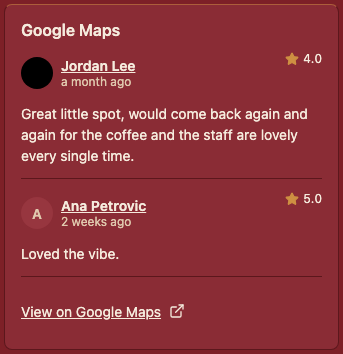
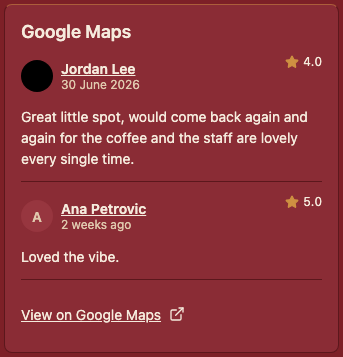
fix(app): round-2 review — mark size matches doc, real date formatting
Round 2 findings on PR #108:

1. Doc/code size mismatch: DESIGN_STANDARDS.md documents the Google Maps
   text mark at 18px (detail) / 16px (footer), but the code mapped `height`
   through fontSize.sm/md tokens, which don't land on those exact values
   (footer rendered 14px, not 16px). Fixed by rendering `height` directly as
   the literal font size — no token mapping to drift out of sync again.

2. Stub type didn't actually mirror T1 1:1: T1's `Review.Text` is a nested
   `localizedText` object and `Review.PublishTime` is a raw RFC3339
   timestamp with no relative-time field — the code comment overclaimed a
   1:1 mirror and rendered raw ISO dates verbatim. Corrected the comment to
   spell out exactly where T6's mapping isn't a straight rename, and made
   the component itself format the date via a shared `formatReviewDate`
   helper (extracted from `TripadvisorReviewsCarousel.tsx`, which had the
   identical "ISO in, real date out" problem, into `src/utils/date.ts` so
   both consumers share one implementation instead of two copies) —
   already-human strings that don't parse as a `Date` still pass through
   verbatim, covering Google's possible `relativePublishTimeDescription`
   case.

3. Minor: added an explicit link-press screenshot (`detail-link-press.png`,
   captured via a real sustained mousedown, not a synthetic RNTL event) —
   the avatar-loading pulse stays an explicit documented waiver
[…]

diff --git a/app/src/components/GoogleAttributionPlate.tsx b/app/src/components/GoogleAttributionPlate.tsx
@@ -4,12 +4,22 @@ import { useState } from 'react';
 import { Linking, Pressable, StyleSheet, Text, View } from 'react-native';
 import { useFocusable } from '../hooks/useFocusable';
 import { colors, fontSize, radius, space } from '../theme/tokens';
+import { formatReviewDate } from '../utils/date';
 import { Skeleton } from './Skeleton';
 
 // T5 (stub — T2 hasn't landed the backend wire shape yet, per
-// design-spec.md's "coordinate via engineering-notes.md" note). Field names
-// mirror T1's Go `placesmap.Review`/`AuthorAttribution` 1:1 so T6's mapping
-// from the proxy JSON is a rename, not a reshape.
+// design-spec.md's "coordinate via engineering-notes.md" note).
+// `authorAttribution`/`rating`/`text` mirror T1's Go `placesmap.Review`/
+// `AuthorAttribution` 1:1 (`DisplayName`→`displayName`, `PhotoURI`→`photoUri`,
+// `URI`→`uri`) — a rename, not a reshape. **`date` does NOT mirror T1
+// 1:1**: T1's `Review.Text` is a nested `localizedText` ({text: string}), so
+// T6 must unwrap `.Text` before it reaches `text` here; and T1's
+// `Review.PublishTime` is a raw RFC3339 timestamp with no
+// relative-time field, so T6 hands the raw ISO string to `date` — this
+// component (not T6) is what turns it into something readable (see
+// `formatReviewDate` below), matching `TripadvisorReviewsCarousel.tsx`'s
+// review-date treatment for the same "API gives ISO, UI shows a real date"
+// problem.
 export type GoogleAuthorAttribution = {
   displayName: string;
   photoUri?: string;
@@ -20,8 +30,11 @@ export type GoogleReview = {
   authorAttribution: GoogleAuthorAttribution;
   rating: number;
   text: string;
-  // Verbatim/relative date string from the API (e.g. "a month ago") —
-  // rendered as-is, never reformatted.
+  // A raw ISO-8601 timestamp (T1's `PublishTime`) *or* an already-human
+  // string (e.g. a `relativePublishTimeDescription`-style "a month ago",
+  // which Google's API can also return, if T6 ever wires it through) —
+  // `formatReviewDate` below reformats the former and passes the latter
+  // through verbatim, so callers don't need to know which one they have.
   date: string;
 };
 
@@ -90,9 +103,14 @@ export function GoogleAttributionPlate({ variant, reviews = [], googleMapsUri }:
 // accurate copy of Google's actual brand mark is out of scope here; swap in
 // the real bundled asset if/when one is sourced, per DESIGN_STANDARDS.md.
 function GoogleMapsMark({ height }: { height: number }) {
+  // `height` doubles as the literal font size (not one of tokens.ts's
+  // fontSize steps — 18px/16px don't land on that scale) so the rendered
+  // size always matches exactly what DESIGN_STANDARDS.md documents per
+  // call site (detail 18px, footer 16px) — no separate mapping to drift
+  // out of sync with the doc again.
   return (
     <View accessibilityElementsHidden importantForAccessibility="no-hide-descendants">
-      <Text style={[styles.markText, { fontSize: height === 16 ? fontSize.sm : fontSize.md }]}>Google Maps</Text>
+      <Text style={[styles.markText, { fontSize: height }]}>Google Maps</Text>
     </View>
   );
 }
@@ -124,7 +142,10 @@ function ReviewRow({ review, hairline }: { review: GoogleReview; hairline: boole
           <ReviewAvatar photoUri={authorAttribution.photoUri} displayName={authorAttribution.displayName} />
           <View style={styles.nameColumn}>
             <Text style={styles.authorName}>{authorAttribution.displayName}</Text>
-            <Text style={styles.reviewDate}>{date}</Text>
+            {/* formatReviewDate reformats an ISO timestamp (T1's raw
+                PublishTime); an already-human string that doesn't parse as
+                a Date (e.g. a relative "a month ago") passes through as-is. */}
+            <Text style={styles.reviewDate}>{formatReviewDate(date) ?? date}</Text>
           </View>
         </Pressable>
         <View style={styles.ratingGroup}>

diff --git a/app/src/features/activity-list/TripadvisorReviewsCarousel.tsx b/app/src/features/activity-list/TripadvisorReviewsCarousel.tsx
@@ -15,6 +15,7 @@ import type { TripadvisorReview } from '../../api/activities';
 import { useFocusable } from '../../hooks/useFocusable';
 import { colors, fontSize, radius, space } from '../../theme/tokens';
 import { RATING_BUBBLE_ASPECT_RATIO, RATING_BUBBLE_WIDTH } from '../../theme/tripadvisorBubble';
+import { formatReviewDate } from '../../utils/date';
 
 type TripadvisorReviewsCarouselProps = {
   reviews: TripadvisorReview[];
@@ -22,19 +23,6 @@ type TripadvisorReviewsCarouselProps = {
 
 const CARD_WIDTH_RATIO = 0.78; // design-spec.md: "~78% of the content width (~300px)".
 const CARD_GAP = space[3];
-
-// §5b review cards show "14 June 2026", not the API's raw ISO-8601
-// timestamp. `keyExtractor` still keys off the raw `review.date` string
-// (unaffected by this display-only reformat) — a missing/unparseable date
-// degrades to no date text rather than "Invalid Date" or the raw string.
-function formatReviewDate(date: string | undefined): string | null {
-  if (!date) return null;
-  const parsed = new Date(date);
-  if (Number.isNaN(parsed.getTime())) return null;
-  return new Intl.DateTimeFormat('en-GB', { day: 'numeric', month: 'long', year: 'numeric', timeZone: 'UTC' }).format(
-    parsed,
-  );
-}
 
 // design-spec.md T4's "Tripadvisor review card" recipe + paged carousel: up
 // to 3 white review cards, same paged-`FlatList` approach as the hero photo

diff --git a/app/src/components/GoogleAttributionPlate.test.tsx b/app/src/components/GoogleAttributionPlate.test.tsx
@@ -35,6 +35,17 @@ describe('GoogleAttributionPlate', () => {
     expect(screen.getByText('View on Google Maps')).toBeTruthy();
   });
 
+  it('detail variant: formats a raw ISO timestamp date into a readable date, not the raw string', () => {
+    render(<GoogleAttributionPlate variant="detail" reviews={[{ ...review, date: '2026-07-15T14:32:00Z' }]} />);
+    expect(screen.getByText('15 July 2026')).toBeTruthy();
+    expect(screen.queryByText('2026-07-15T14:32:00Z')).toBeNull();
+  });
+
+  it('detail variant: an already-human date string (not parseable as a Date) renders verbatim', () => {
+    render(<GoogleAttributionPlate variant="detail" reviews={[{ ...review, date: 'a month ago' }]} />);
+    expect(screen.getByText('a month ago')).toBeTruthy();
+  });
+
   it('detail variant: the brand mark renders once (header only), not again on the in-card maps link row', () => {
     render(
       <GoogleAttributionPlate variant="detail" reviews={[review]} googleMapsUri="https://maps.example/place" />,

diff --git a/app/src/utils/date.ts b/app/src/utils/date.ts
@@ -1,0 +1,15 @@
+// Shared by TripadvisorReviewsCarousel.tsx (§5b review cards) and
+// GoogleAttributionPlate.tsx (Google review rows) — both show a review's
+// date as "14 June 2026", not the API's raw ISO-8601 timestamp. Returns
+// `null` (not the raw string) when `date` is missing/unparseable so a
+// caller can fall back to rendering it verbatim (e.g. a Google
+// `relativePublishTimeDescription`-style string like "a month ago", which
+// isn't parseable as a `Date` and is supposed to pass through unchanged).
+export function formatReviewDate(date: string | undefined): string | null {
+  if (!date) return null;
+  const parsed = new Date(date);
+  if (Number.isNaN(parsed.getTime())) return null;
+  return new Intl.DateTimeFormat('en-GB', { day: 'numeric', month: 'long', year: 'numeric', timeZone: 'UTC' }).format(
+    parsed,
+  );
+}
